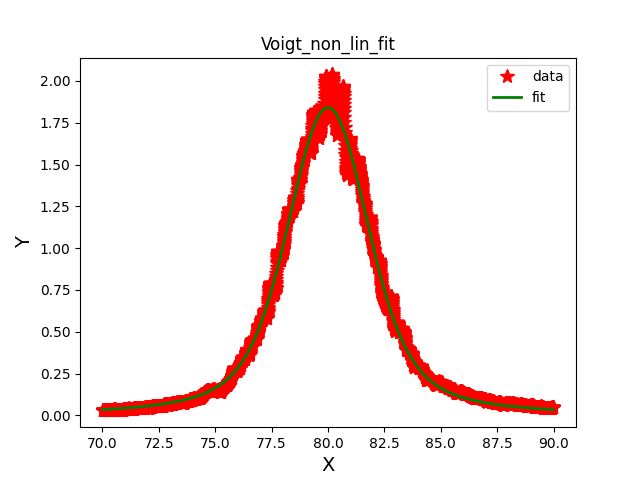
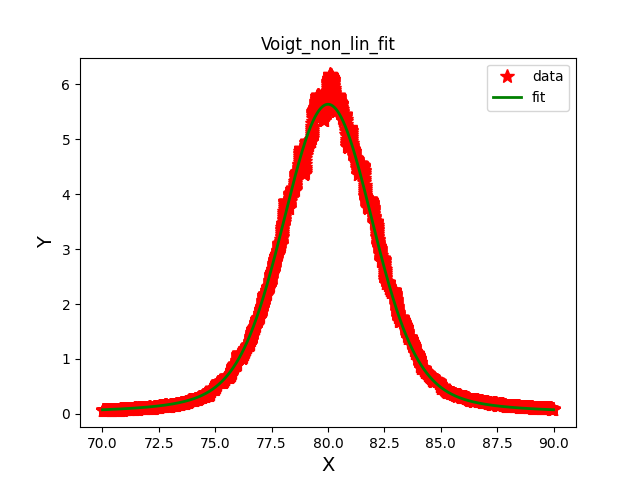
Added function for performing Voigt and Lorentz to all sample data sets.

diff --git a/Statistics/Test_Routines.cpp b/Statistics/Test_Routines.cpp
@@ -1623,8 +1623,11 @@ void testing::Lorentzian_data_fit()
 
 	// Generate data to use in the fit process
 	int npts;
-	long idum = (-1011);
 	double spread, xlow, xhigh, deltax, xpos, yval;
+
+	time_t rawtime;
+	time(&rawtime);
+	long idum = (-static_cast<long>(rawtime)); // randomised seed for rng
 
 	xlow = 70.0; xhigh = 90.0; deltax = 0.1;
 	npts = (int)(1.0 + ((xhigh - xlow) / deltax));
@@ -1892,8 +1895,11 @@ void testing::Gaussian_data_fit()
 
 	// Generate data to use in the fit process
 	int npts;
-	long idum = (-1011);
 	double spread, xlow, xhigh, deltax, xpos, yval;
+
+	time_t rawtime;
+	time(&rawtime);
+	long idum = (-static_cast<long>(rawtime)); // randomised seed for rng
 
 	xlow = 75.0; xhigh = 85.0; deltax = 0.1;
 	npts = (int)(1.0 + ((xhigh - xlow) / deltax));
@@ -2120,8 +2126,11 @@ void testing::Voigt_data_fit()
 
 	// Generate data to use in the fit process
 	int npts;
-	long idum = (-1011);
 	double spread, xlow, xhigh, deltax, xpos, yval;
+
+	time_t rawtime;
+	time(&rawtime);
+	long idum = (-static_cast<long>(rawtime)); // randomised seed for rng
 
 	xlow = 70.0; xhigh = 90.0; deltax = 0.01;
 	npts = (int)(1.0 + ((xhigh - xlow) / deltax));
@@ -2195,8 +2204,11 @@ void testing::Voigt_data_fit_test()
 	std::string filename = "LLM_Spctrm_I_60.txt";
 	
 	int npts, n_rows, npars = 4, n_cols, indx_max = 0;
-	long idum = (-1011);
 	double spread = 0.15, spctr_max = -500.0, f_max = 0, f_start, f_end, scale_fac;
+
+	time_t rawtime;
+	time(&rawtime);
+	long idum = (-static_cast<long>(rawtime)); // randomised seed for rng
 
 	std::vector<std::vector<double>> the_data;
 
@@ -2264,7 +2276,7 @@ void testing::Voigt_data_fit_test()
 	// run the fitting algorithm
 	fit::non_lin_fit(xdata, ydata, sigdata, npts, a_guess, ia, npars, covar, alpha, &chisq, Voigt, ITMAX, TOL, true);
 
-	// compute the HWhm using bisection
+	// compute the HWHM using bisection
 	double xlow = a_guess[1], xhigh = f_end, HWHM = 0.0;
 	
 	Voigt_HWHM(xlow, xhigh, a_guess, npars, &HWHM);
@@ -2401,4 +2413,200 @@ void testing::Voigt_HWHM(double xlow, double xhigh, std::vector<double>& a, int&
 	catch (std::invalid_argument& e) {
 		std::cerr << e.what();
 	}
+}
+
+void testing::Lorentz_Voigt_Fit_Analysis()
+{
+	// Run the Lorentz and Voigt fitting algorithms for the sample data sets
+	// Save the fitting parameters, see if you can fit a model to the Voigt HWHM data
+	// R. Sheehan 13 - 12 - 2021
+
+	std::string data_home = "c:\\users\\robertsheehan\\Research\\Laser_Physics\\Linewidth\\Data\\Sample_Data"; 
+
+	useful_funcs::set_directory(data_home); 
+
+	useful_funcs::get_directory(); 
+
+	int n_files = 6, npts, n_rows, npars, n_cols, indx_max = 0, ITMAX = 50;
+	double spread = 0.15, spctr_max = -500.0, f_max = 0, scale_fac = 1.0e+6, f_start = 70.0, f_end = 90.0, TOL = 1e-3, chisq = 0.0;
+	
+	std::string file_tmplt; 
+	std::string file_out; 
+	std::string file_results; 
+	
+	// Declare the necessary arrays
+	std::vector<double> xdata;
+	std::vector<double> ydata;
+	std::vector<double> sigdata;
+	std::vector<std::vector<double>> the_data;
+
+	file_out = "Fitted_Parameter_Values.txt"; 
+	std::fstream write(file_out, std::ios_base::out|std::ios_base::app);
+	/*if (write.is_open()) {
+		write << "Filename , Actual Peak / uW , Voigt h / uW , Voigt f_{0} / MHz , Voigt gamma / MHz , Voigt sigma / MHz , Voigt delta / MHz , Voigt peak / uW , Lorentz h / uW , Lorentz f_{0} / MHz , Lorentz gamma / MHz , Lorentz peak / uW\n"; 
+	}*/
+
+	for (int i = 40; i < 66; i+=5) {
+		//file_tmplt = "Smpl_LLM_" + template_funcs::toString(i) + dottxt; // name of the file with data to be fitted
+		file_tmplt = "LLM_Spctrm_I_" + template_funcs::toString(i) + dottxt; // name of the file with data to be fitted
+
+		vecut::read_into_matrix(file_tmplt, the_data, n_rows, n_cols, true); // read the data from the file into memory
+
+		// format the data from dBm scale to linear scale prior to fitting
+		for (int i = 0; i < n_rows; i++) {
+			if (the_data[i][0] > f_start && the_data[i][0] < f_end) {
+				xdata.push_back(the_data[i][0]);
+				ydata.push_back(scale_fac * pow(10.0, the_data[i][1] / 10.0)); // convert the spectral data from dBm to mW scale and rescale it
+			}
+		}
+
+		npts = static_cast<int>(xdata.size()); // number of data points in the fit
+
+		// locate the location of the maximum of the data set
+		indx_max = 0; spctr_max = -500.0, f_max = 0;
+		for (int i = 0; i < npts; i++) {
+			if (ydata[i] > spctr_max) {
+				spctr_max = ydata[i];
+				indx_max = i;
+			}
+
+			if (fabs(ydata[i]) > 0.0) {
+				sigdata.push_back(spread * ydata[i]);
+			}
+			else {
+				sigdata.push_back(spread); // sigdata cannot have zero values
+			}
+		}
+
+		std::cout << "\nMax value in data set: " << spctr_max << "\n";
+		std::cout << "Corresponding Frequency: " << xdata[indx_max] << "\n\n";
+
+		// Voigt Fit
+		// Declare the necessary arrays
+		npars = 4; // For Voigt fit 4 parameters are required
+		std::vector<std::vector<double>> covar = vecut::array_2D(npars, npars);
+		std::vector<std::vector<double>> alpha = vecut::array_2D(npars, npars);
+
+		// define the initial guesses to the parameters to be determined
+		std::vector<double> a_voigt(npars, 0.0);
+		std::vector<int> ia(npars, 1); // tell the algorithm that you want to locate all parameters 
+
+		ia[1] = 0;
+		a_voigt[0] = 10 * spctr_max; // must start looking for amplitude parameter 
+		a_voigt[1] = 80; // this is fixed
+		a_voigt[2] = 1.5; // initial guesses for the parameters
+		a_voigt[3] = 2.0; // initial guesses for the parameters
+
+		// run the fitting algorithm
+		chisq = 0.0; // reset value to 0.0 between calls
+		fit::non_lin_fit(xdata, ydata, sigdata, npts, a_voigt, ia, npars, covar, alpha, &chisq, Voigt, ITMAX, TOL, true);
+
+		// compute the HWHM using bisection
+		double xlow = a_voigt[1], xhigh = f_end, HWHM = 0.0, voigt_peak;
+
+		voigt_peak = a_voigt[0] * exp(template_funcs::DSQR(a_voigt[2] / a_voigt[3])) * probability::erffc(a_voigt[2] / a_voigt[3]); 
+
+		Voigt_HWHM(xlow, xhigh, a_voigt, npars, &HWHM);
+
+		std::cout << "Voigt Fit\nFitted centre freq: " << a_voigt[1] << " MHz\n";
+		std::cout << "Computed peak val: " << voigt_peak << " uW\n";
+		std::cout << "Lorentz HWHM: " << a_voigt[2] << " MHz\n";
+		std::cout << "Gauss HWHM: " << sqrt(2.0 * log(2.0)) * a_voigt[3] << " MHz\n";
+		std::cout << "Voigt HWHM: " << HWHM << " MHz\n\n";
+
+		// compute the residuals for the fit 
+		// Voigt values stored in voigt_data[3], residuals stored in voigt_data[4]
+		std::vector<std::vector<double>> voigt_data;
+		fit::residuals(xdata, ydata, sigdata, npts, a_voigt, npars, Voigt, voigt_data);
+
+		// clear those vectors between calls to the fit functions
+		covar.clear(); alpha.clear(); ia.clear();
+
+		// Lorentz Fit
+		// Declare the necessary arrays
+		npars = 3; // For Voigt fit 3 parameters are required
+		covar = vecut::array_2D(npars, npars);
+		alpha = vecut::array_2D(npars, npars);
+
+		// define the initial guesses to the parameters to be determined
+		std::vector<double> a_lorentz(npars, 0.0);
+		ia.resize(npars, 1); // tell the algorithm that you want to locate all parameters 
+
+		ia[1] = 0;
+		a_lorentz[0] = 10 * spctr_max; // must start looking for amplitude parameter 
+		a_lorentz[1] = 80; // this is fixed
+		a_lorentz[2] = 1.5; // initial guesses for the parameters
+
+		// run the fitting algorithm
+		chisq = 0.0; // reset value to 0.0 between calls
+		fit::non_lin_fit(xdata, ydata, sigdata, npts, a_lorentz, ia, npars, covar, alpha, &chisq, Lorentzian, ITMAX, TOL, true);
+
+		double lorentz_peak = a_lorentz[0] / a_lorentz[2]; 
+
+		std::cout << "Lorentz Fit\nFitted centre freq: " << a_lorentz[1] << " MHz\n";
+		std::cout << "Computed peak val: " << lorentz_peak << "uW\n";
+		std::cout << "Computed HWHM: " << a_lorentz[2] << " MHz\n\n";
+
+		// compute the residuals for the fit 
+		// Voigt values stored in data[3], residuals stored in data[4]
+		std::vector<std::vector<double>> lor_data;
+		fit::residuals(xdata, ydata, sigdata, npts, a_lorentz, npars, Lorentzian, lor_data);
+
+		// clear those vectors between calls to the fit functions
+		covar.clear(); alpha.clear(); ia.clear();
+
+		// Output fit Parameter Results
+		// Output data in the form Filename , Actual Peak / uW , Voigt h / uW , Voigt f_{0} / MHz , Voigt gamma / MHz , Voigt sigma / MHz , Voigt delta / MHz , Voigt peak / uW , Lorentz h / uW , Lorentz f_{0} / MHz , Lorentz gamma / MHz , Lorentz peak / uW
+		if (write.is_open()) {
+			write << file_tmplt << " , " << std::setprecision(10) << spctr_max << " , "; 
+			for (int i = 0; i < 4; i++) {
+				write << std::setprecision(10) << a_voigt[i] << " , ";
+			}
+			write << std::setprecision(10)<< HWHM <<" , " << voigt_peak << " , ";
+			for (int i = 0; i < 3; i++) {
+				write << std::setprecision(10) << a_lorentz[i] << " , ";
+			}
+			write << std::setprecision(10) << lorentz_peak << "\n";
+		}
+
+		// Output fit function results
+		// Data will be output in the form
+		// row 1: freq fit data, row 2: LLM spctrl data, row 3: Voigt f vals, row 4: Voigt resids, row 5: Lorentz f vals, row 6: Lorentz f resids
+		useful_funcs::remove_substring(file_tmplt, dottxt); 
+		file_results = file_tmplt + "_fit_results.txt";
+		std::ofstream write_res(file_results, std::ios_base::out, std::ios_base::trunc);
+		if (write_res.is_open()) {
+			for (int i = 0; i < npts; i++) {
+				write_res << std::setprecision(10) << voigt_data[0][i] << " , "; 
+			}
+			write_res << "\n";
+			for (int i = 0; i < npts; i++) {
+				write_res << std::setprecision(10) << voigt_data[1][i] << " , ";
+			}
+			write_res << "\n";
+			for (int i = 0; i < npts; i++) {
+				write_res << std::setprecision(10) << voigt_data[3][i] << " , ";
+			}
+			write_res << "\n";
+			for (int i = 0; i < npts; i++) {
+				write_res << std::setprecision(10) << voigt_data[4][i] << " , ";
+			}
+			write_res << "\n";
+			for (int i = 0; i < npts; i++) {
+				write_res << std::setprecision(10) << lor_data[3][i] << " , ";
+			}
+			write_res << "\n";
+			for (int i = 0; i < npts; i++) {
+				write_res << std::setprecision(10) << lor_data[4][i] << " , ";
+			}
+			write_res << "\n";
+		}
+
+		write_res.close(); 
+
+		// clear those vectors between file IO
+		the_data.clear(); xdata.clear(); ydata.clear(); sigdata.clear(); voigt_data.clear(); lor_data.clear(); 
+	}
+
+	write.close(); 
 }

diff --git a/Statistics/Useful.h b/Statistics/Useful.h
@@ -12,6 +12,14 @@ namespace useful_funcs{
 
 	void read_into_vector(std::string &filename, std::vector<double> &data, int &n_pts, bool loud = false); 
 
+	void remove_substring(std::string& the_string, std::string the_sub_string);
+
+	void create_directory(std::string& dir_name);
+
+	void set_directory(std::string& dir_name);
+
+	void get_directory();
+
 	bool valid_filename_length(const std::string& name);
 
 }

diff --git a/Statistics/Main.cpp b/Statistics/Main.cpp
@@ -102,7 +102,9 @@ int main()
 
 	//testing::Voigt_data_fit();
 	
-	testing::Voigt_data_fit_test();
+	//testing::Voigt_data_fit_test();
+
+	testing::Lorentz_Voigt_Fit_Analysis(); 
 	
 	std::cout<<"Press enter to close console\n";
 	std::cin.get(); 

diff --git a/Statistics/Test_Routines.h b/Statistics/Test_Routines.h
@@ -84,6 +84,8 @@ namespace testing{
 	void Voigt_data_fit_test(); 
 
 	void Voigt_HWHM(double xlow, double xhigh, std::vector<double>& a, int& na, double* HWHM, bool loud = false);
+
+	void Lorentz_Voigt_Fit_Analysis();
 }
 
 #endif
